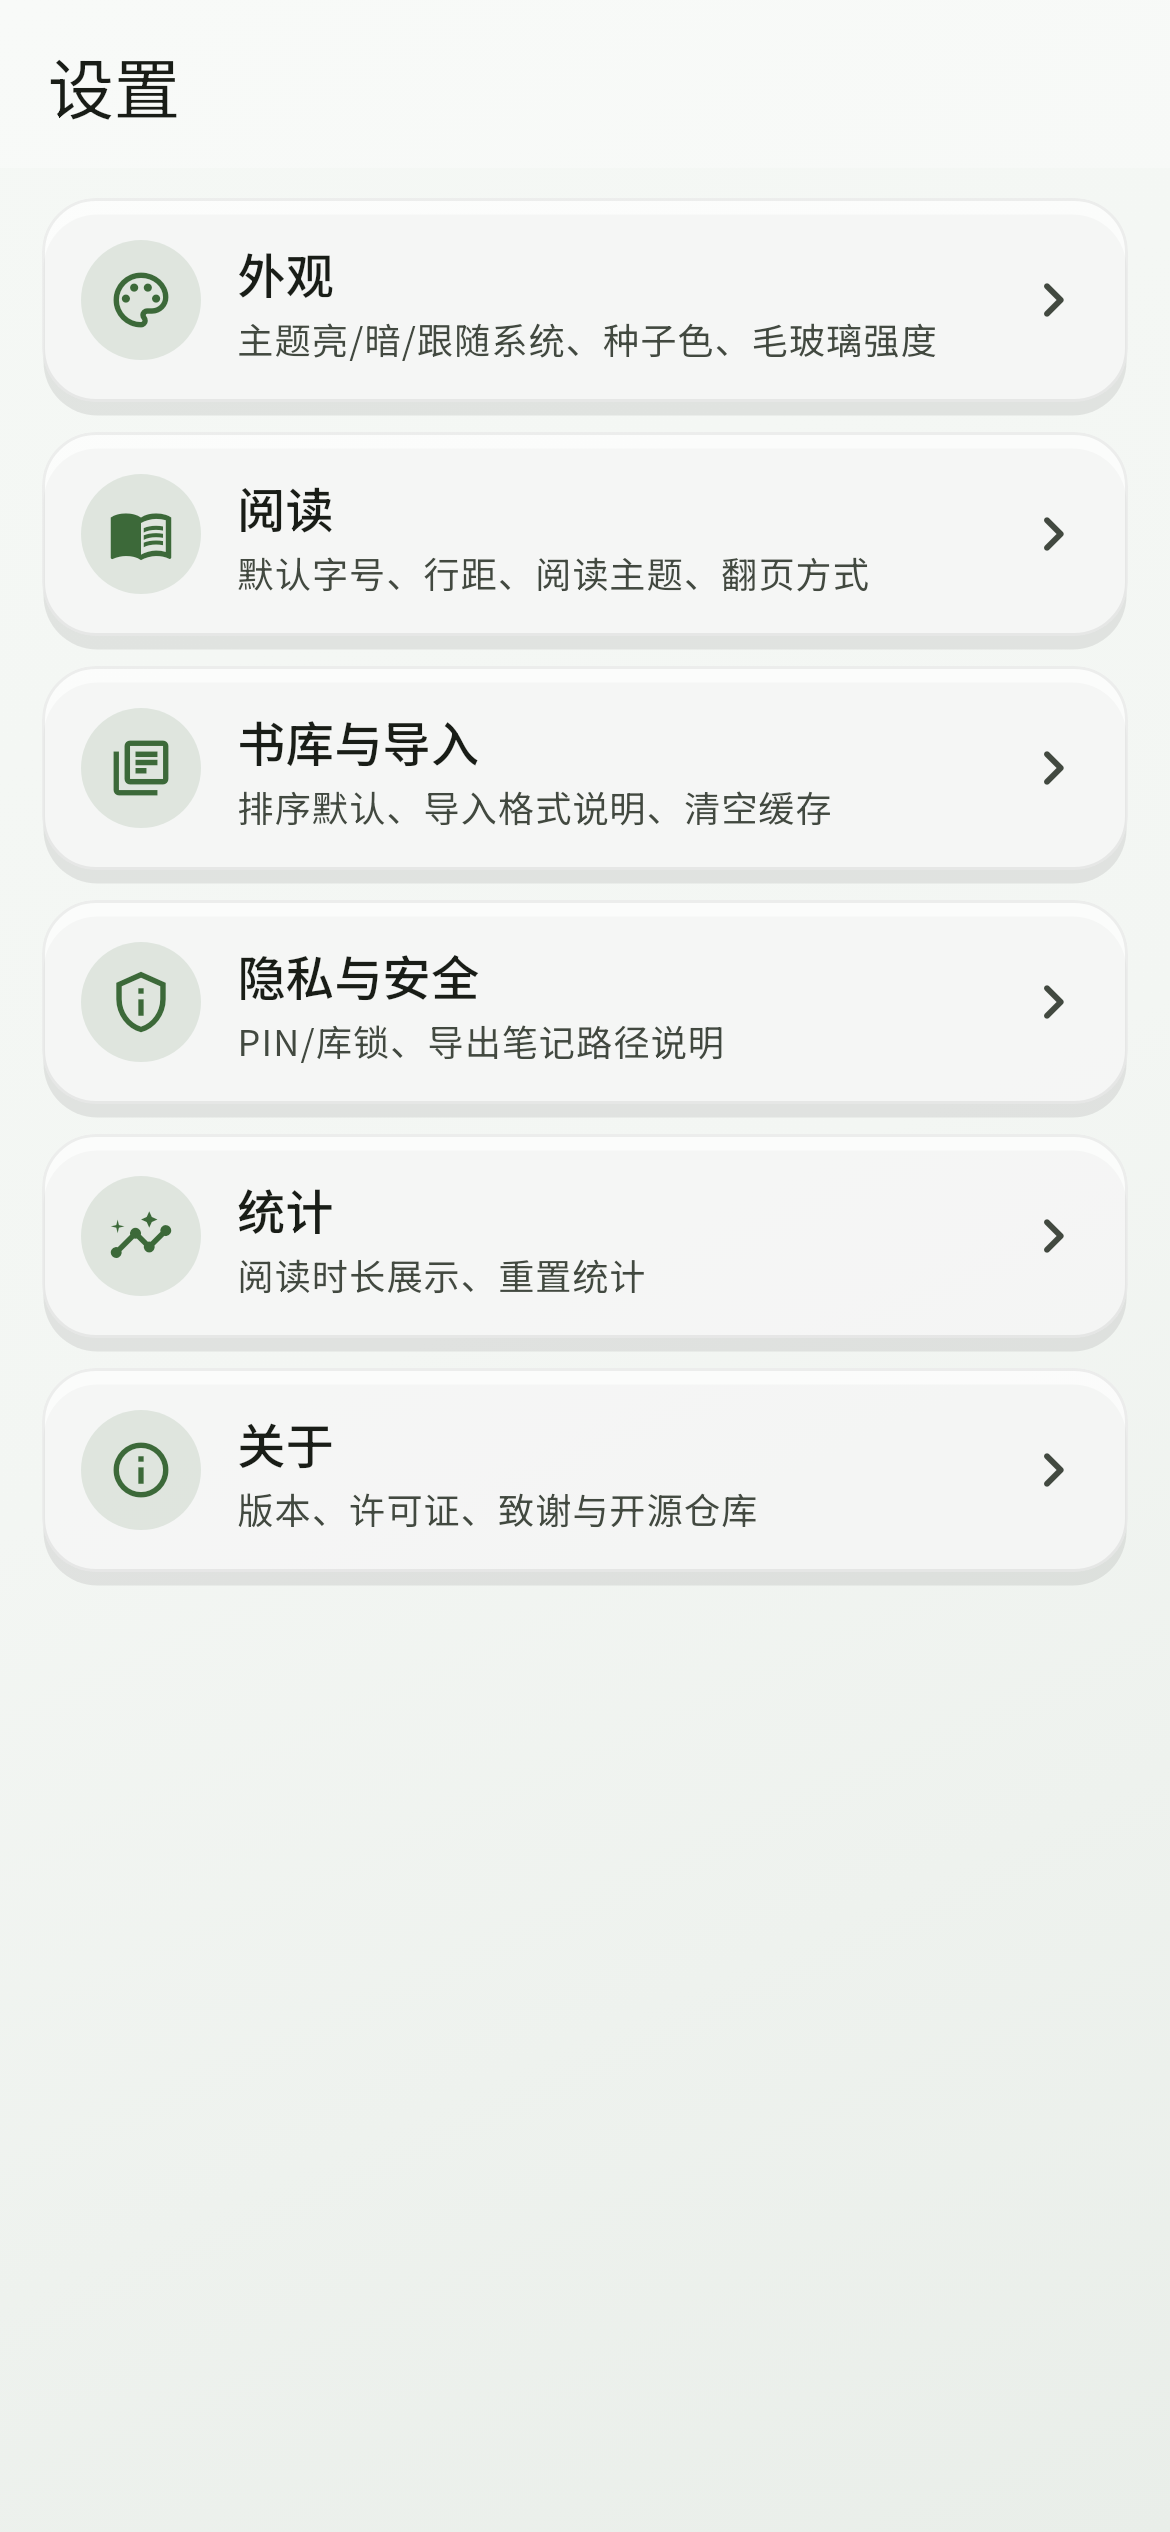
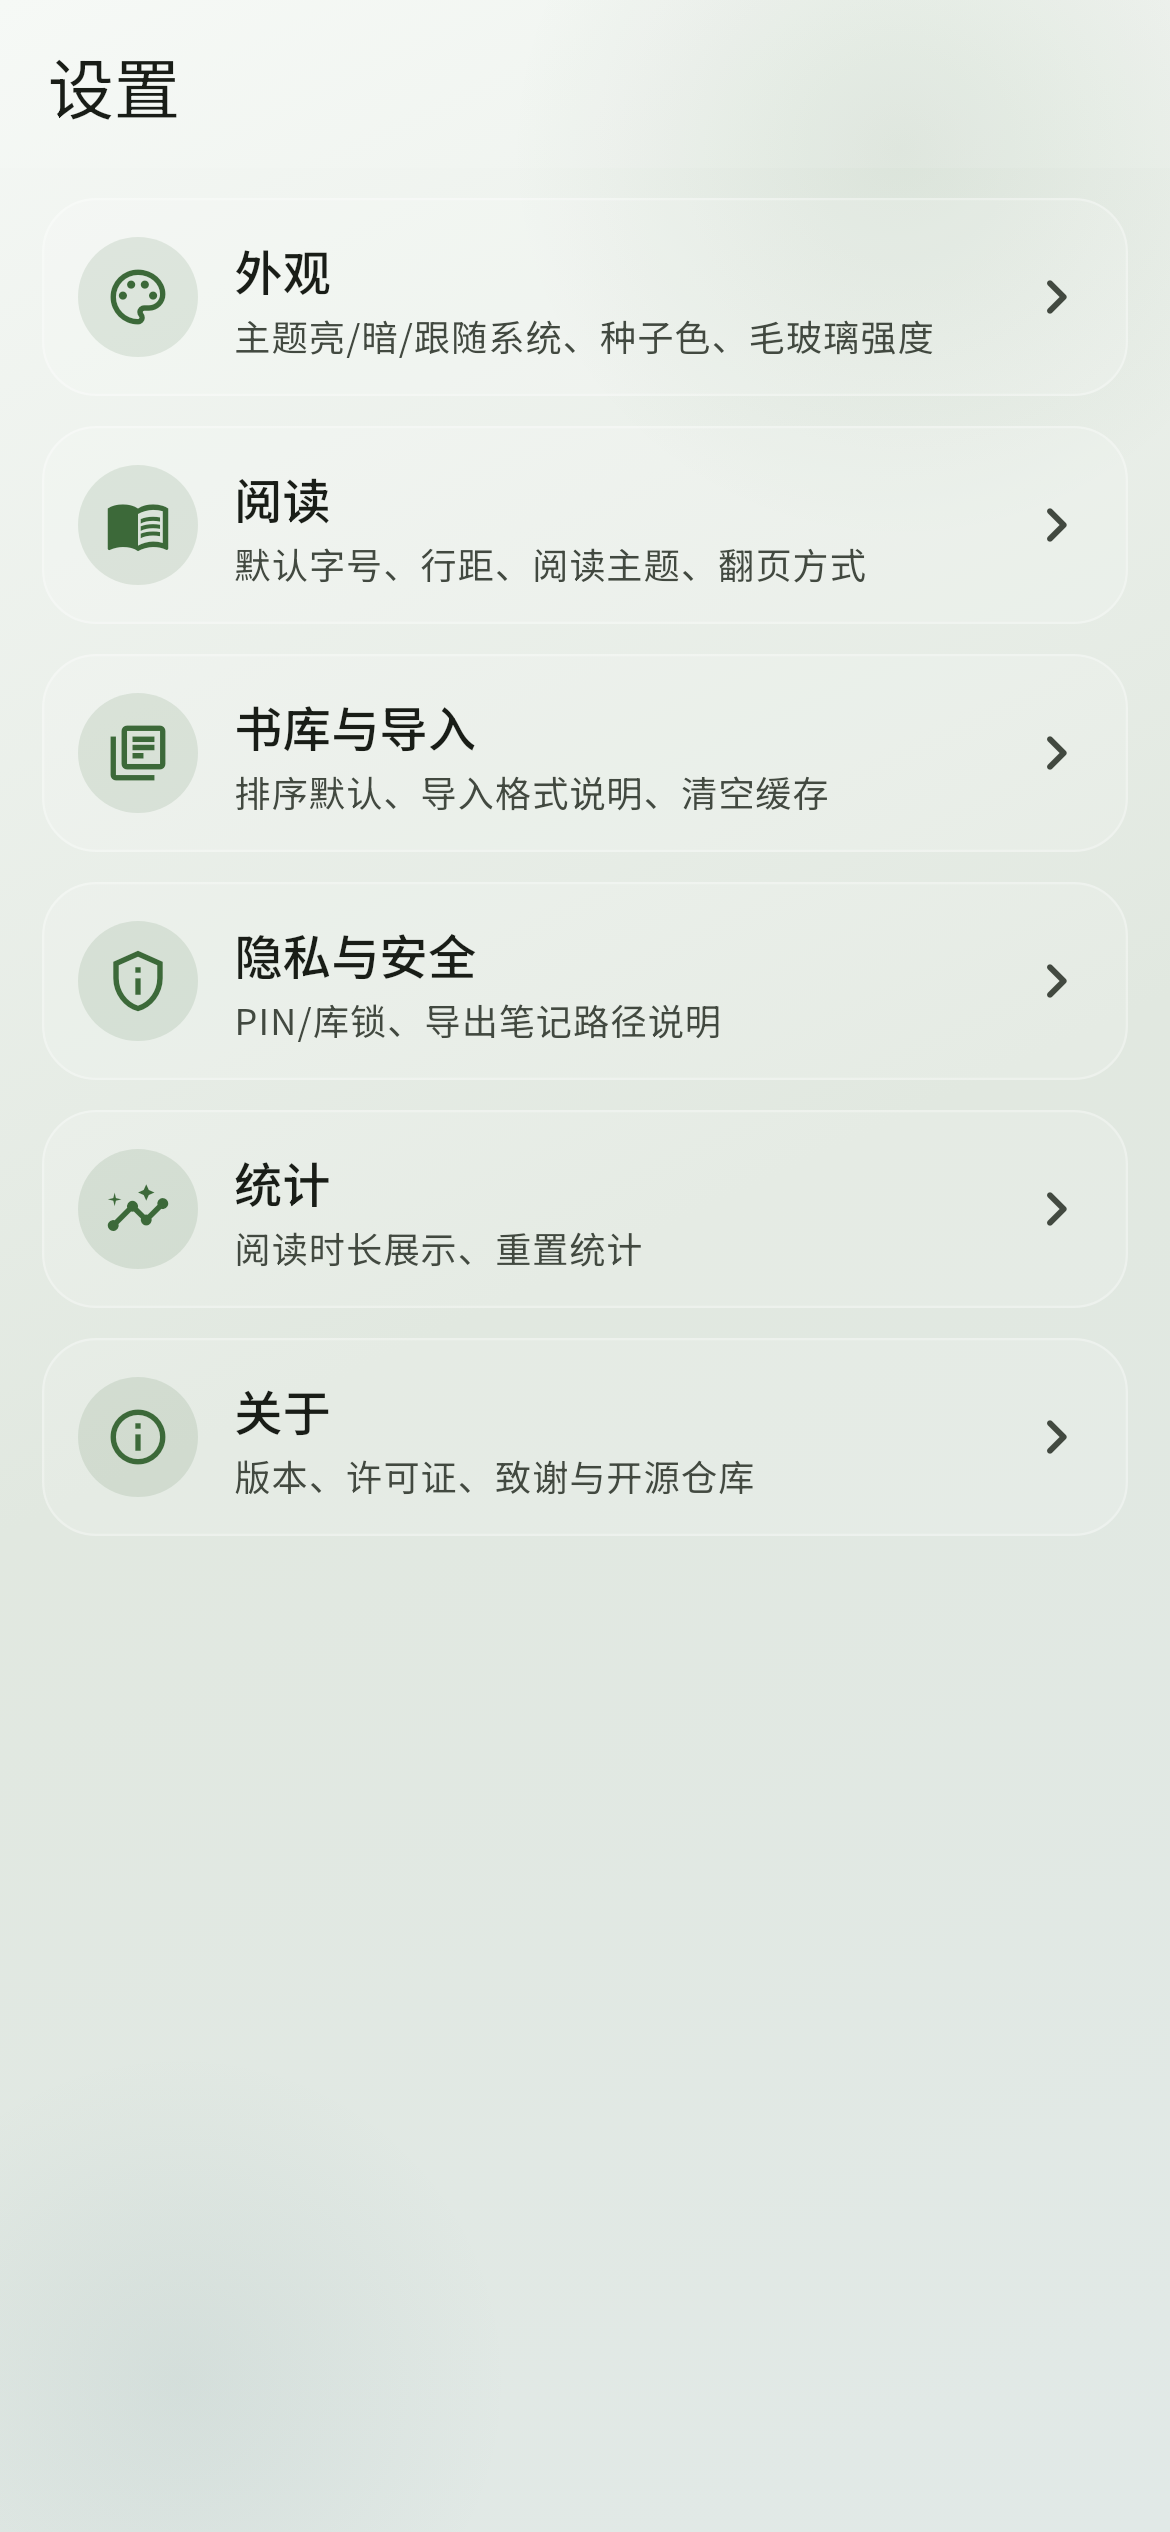
refactor glass to flat MD3 frost (no plastic elevation)
Rewrite GlassSurface like Flutter glass kits: ClipRRect → BackdropFilter
→ low-alpha white frost (~0.14 light / ~0.10 dark) → thin white rim.
Remove soft BoxShadow; elevate is a no-op. Lower chrome/AppBar opacity,
fix hub selected override, and strengthen scaffold wash so frost reads.
Regenerate UI goldens/screenshots.

diff --git a/lib/core/theme/app_theme.dart b/lib/core/theme/app_theme.dart
@@ -62,11 +62,11 @@ class AppTheme {
       scaffoldBackgroundColor: const Color(0xFFF3F6F3),
       cardTheme: CardThemeData(
         elevation: 0,
-        color: Colors.white.withValues(alpha: 0.68),
+        color: Colors.white.withValues(alpha: 0.14),
         shape: RoundedRectangleBorder(borderRadius: BorderRadius.circular(20)),
       ),
       navigationBarTheme: NavigationBarThemeData(
-        backgroundColor: Colors.white.withValues(alpha: 0.65),
+        backgroundColor: Colors.white.withValues(alpha: 0.10),
         elevation: 0,
         indicatorColor: seedColor.withValues(alpha: 0.18),
         labelTextStyle: WidgetStateProperty.resolveWith(
@@ -189,7 +189,10 @@ class _FadeSlidePageTransitionsBuilder extends PageTransitionsBuilder {
   }
 }
 
-/// Frosted glass container (毛玻璃).
+/// Flat MD3 frosted glass (毛玻璃) — blur + low-alpha frost + thin rim.
+///
+/// Pattern mirrors common Flutter glass kits (ClipRRect → BackdropFilter →
+/// frost fill ~0.1 → thin white border). No BoxShadow / plastic elevation.
 class GlassSurface extends StatelessWidget {
   /// Set false in screenshot/golden tests — BackdropFilter+toImage can hang under flutter_test.
   static bool useFrostedBlur = true;
@@ -201,11 +204,11 @@ class GlassSurface extends StatelessWidget {
     super.key,
     required this.child,
     this.borderRadius = 20,
-    this.blur = 18,
+    this.blur = 20,
     this.padding,
     this.opacity,
     this.border = true,
-    this.elevate = true,
+    this.elevate = false,
   });
 
   final Widget child;
@@ -214,69 +217,70 @@ class GlassSurface extends StatelessWidget {
   final EdgeInsetsGeometry? padding;
   final double? opacity;
   final bool border;
-  /// When false (e.g. full-bleed app bar), skip outer shadow.
+
+  /// Kept for API compatibility. Soft drop shadows are removed (flat frost).
   final bool elevate;
 
   @override
   Widget build(BuildContext context) {
     final isDark = Theme.of(context).brightness == Brightness.dark;
-    // Layering (MD3 soft frost / common Flutter glass pattern):
-    // 1) tinted wash underneath (GlassScaffoldBackground)
-    // 2) content cards: pure white translucent fill — never primaryContainer lerp
-    // 3) chrome (GlassAppBar): lower opacity so it does not double-stack white
-    // 4) shadow OUTSIDE ClipRRect so elevation is visible (clipping shadows = 两层白)
-    final fill = Colors.white.withValues(
-      alpha: opacity ?? (isDark ? 0.10 : 0.68),
-    );
-    // Light: soft dark hairline reads on soft gray-green wash; dark: light rim.
+    // Content cards: low frost so BackdropFilter reads against the wash.
+    // Chrome/AppBar should pass a lower [opacity] (~0.06–0.10).
+    final fillAlpha = opacity ?? (isDark ? 0.10 : 0.14);
+    final fill = Colors.white.withValues(alpha: fillAlpha.clamp(0.0, 1.0));
+    // Light white rim (not dark hairline) — reads as glass edge on tinted wash.
     final stroke = isDark
-        ? Colors.white.withValues(alpha: 0.14)
-        : Colors.black.withValues(alpha: 0.06);
+        ? Colors.white.withValues(alpha: 0.18)
+        : Colors.white.withValues(alpha: 0.30);
 
     final radius = BorderRadius.circular(borderRadius);
-    final surfaceDecoration = BoxDecoration(
-      color: fill,
-      borderRadius: radius,
-      border: border ? Border.all(color: stroke, width: 1) : null,
-    );
-    final painted = AnimatedContainer(
-      duration: MediaQuery.disableAnimationsOf(context)
-          ? Duration.zero
-          : const Duration(milliseconds: 220),
-      curve: Curves.easeOutCubic,
-      decoration: surfaceDecoration,
-      child: padding == null ? child : Padding(padding: padding!, child: child),
-    );
     final effectiveBlur = blur * blurStrength;
-    final frosted = ClipRRect(
-      borderRadius: radius,
-      child: useFrostedBlur && effectiveBlur > 0.5
-          ? BackdropFilter(
+    final content =
+        padding == null ? child : Padding(padding: padding!, child: child);
+
+    Widget frost = Stack(
+      fit: StackFit.passthrough,
+      children: [
+        if (useFrostedBlur && effectiveBlur > 0.5)
+          Positioned.fill(
+            child: BackdropFilter(
               filter: ImageFilter.blur(
                 sigmaX: effectiveBlur,
                 sigmaY: effectiveBlur,
               ),
-              child: painted,
-            )
-          : painted,
+              child: const SizedBox.expand(),
+            ),
+          ),
+        Positioned.fill(
+          child: DecoratedBox(
+            decoration: BoxDecoration(
+              color: fill,
+              borderRadius: radius,
+            ),
+          ),
+        ),
+        content,
+      ],
     );
 
-    // Elevation lives outside the clip so soft shadows are not discarded.
-    if (!elevate) return frosted;
-    return DecoratedBox(
-      decoration: BoxDecoration(
-        borderRadius: radius,
-        boxShadow: [
-          BoxShadow(
-            color: Colors.black.withValues(alpha: isDark ? 0.32 : 0.08),
-            blurRadius: isDark ? 22 : 14,
-            offset: const Offset(0, 5),
-            spreadRadius: isDark ? 0 : -0.5,
-          ),
-        ],
-      ),
-      child: frosted,
+    frost = ClipRRect(
+      borderRadius: radius,
+      clipBehavior: Clip.antiAlias,
+      child: frost,
     );
+
+    if (border) {
+      frost = DecoratedBox(
+        decoration: BoxDecoration(
+          borderRadius: radius,
+          border: Border.all(color: stroke, width: 0.75),
+        ),
+        child: frost,
+      );
+    }
+
+    // [elevate] is intentionally a no-op — flat MD3 frost, no soft shadows.
+    return frost;
   }
 }
 
@@ -300,6 +304,7 @@ class GlassAppBar extends StatelessWidget implements PreferredSizeWidget {
 
   @override
   Widget build(BuildContext context) {
+    final isDark = Theme.of(context).brightness == Brightness.dark;
     return AppBar(
       title: title,
       leading: leading,
@@ -307,11 +312,11 @@ class GlassAppBar extends StatelessWidget implements PreferredSizeWidget {
       bottom: bottom,
       flexibleSpace: GlassSurface(
         borderRadius: 0,
-        blur: 18,
+        blur: 20,
         border: false,
         elevate: false,
-        // Chrome: more translucent than content cards (avoids 两层白 with search).
-        opacity: Theme.of(context).brightness == Brightness.dark ? 0.08 : 0.28,
+        // Chrome: lower than content cards so it does not double-stack frost.
+        opacity: isDark ? 0.06 : 0.08,
         child: const SizedBox.expand(),
       ),
     );

diff --git a/lib/presentation/widgets/glass_scaffold_bg.dart b/lib/presentation/widgets/glass_scaffold_bg.dart
@@ -1,11 +1,10 @@
 import 'package:flutter/material.dart';
 
-/// Soft MD3 wash so frosted glass has contrast to blur.
+/// Soft MD3 wash so low-opacity frosted glass has contrast to blur.
 ///
-/// Light mode stays near the first-version gray-green (`0xFFF3F6F3` /
-/// `0xFFF5F8F5`) with only a whisper of primary — not neon green/purple orbs.
-/// Content glass is pure white translucent; this wash must stay slightly
-/// tinted or cards vanish into the background (两层白).
+/// Light mode stays near the gray-green family (`0xFFF3F6F3`) but with a
+/// clearer primary/tertiary tint so BackdropFilter frost (~0.12–0.18) reads.
+/// Subtle orbs add depth without neon liquid-glass speculars.
 class GlassScaffoldBackground extends StatelessWidget {
   const GlassScaffoldBackground({super.key, required this.child});
 
@@ -15,26 +14,73 @@ class GlassScaffoldBackground extends StatelessWidget {
   Widget build(BuildContext context) {
     final cs = Theme.of(context).colorScheme;
     final isDark = Theme.of(context).brightness == Brightness.dark;
-    return DecoratedBox(
-      decoration: BoxDecoration(
-        gradient: LinearGradient(
-          begin: Alignment.topLeft,
-          end: Alignment.bottomRight,
-          colors: isDark
-              ? [
-                  cs.surface,
-                  Color.lerp(cs.surface, cs.primary, 0.18)!,
-                  Color.lerp(cs.surface, cs.tertiary, 0.12)!,
-                ]
-              : [
-                  // First-version soft gray-green — keep primary bleed tiny.
-                  const Color(0xFFF5F8F5),
-                  const Color(0xFFF3F6F3),
-                  Color.lerp(const Color(0xFFF3F6F3), cs.primary, 0.055)!,
-                ],
+    return Stack(
+      fit: StackFit.expand,
+      children: [
+        DecoratedBox(
+          decoration: BoxDecoration(
+            gradient: LinearGradient(
+              begin: Alignment.topLeft,
+              end: Alignment.bottomRight,
+              colors: isDark
+                  ? [
+                      cs.surface,
+                      Color.lerp(cs.surface, cs.primary, 0.22)!,
+                      Color.lerp(cs.surface, cs.tertiary, 0.16)!,
+                    ]
+                  : [
+                      const Color(0xFFF5F8F5),
+                      Color.lerp(const Color(0xFFF3F6F3), cs.primary, 0.10)!,
+                      Color.lerp(const Color(0xFFF0F4F2), cs.tertiary, 0.08)!,
+                    ],
+            ),
+          ),
+        ),
+        // Gentle wash orbs — soft enough to avoid 拟物 liquid glass.
+        Positioned(
+          top: -80,
+          right: -40,
+          child: _WashOrb(
+            diameter: 260,
+            color: cs.primary.withValues(alpha: isDark ? 0.18 : 0.10),
+          ),
+        ),
+        Positioned(
+          bottom: -60,
+          left: -50,
+          child: _WashOrb(
+            diameter: 220,
+            color: cs.tertiary.withValues(alpha: isDark ? 0.14 : 0.08),
+          ),
+        ),
+        child,
+      ],
+    );
+  }
+}
+
+class _WashOrb extends StatelessWidget {
+  const _WashOrb({required this.diameter, required this.color});
+
+  final double diameter;
+  final Color color;
+
+  @override
+  Widget build(BuildContext context) {
+    return IgnorePointer(
+      child: Container(
+        width: diameter,
+        height: diameter,
+        decoration: BoxDecoration(
+          shape: BoxShape.circle,
+          gradient: RadialGradient(
+            colors: [
+              color,
+              color.withValues(alpha: 0),
+            ],
+          ),
         ),
       ),
-      child: child,
     );
   }
 }

diff --git a/lib/presentation/screens/settings/settings_hub_screen.dart b/lib/presentation/screens/settings/settings_hub_screen.dart
@@ -140,7 +140,7 @@ class _SettingsHubScreenState extends ConsumerState<SettingsHubScreen> {
           // Single GlassSurface per row — flat ink content inside.
           child: GlassSurface(
             borderRadius: 18,
-            opacity: selected ? (cs.brightness == Brightness.dark ? 0.16 : 0.52) : null,
+            opacity: selected ? (cs.brightness == Brightness.dark ? 0.14 : 0.20) : null,
             child: Material(
               color: selected
                   ? cs.secondaryContainer.withValues(alpha: 0.35)
